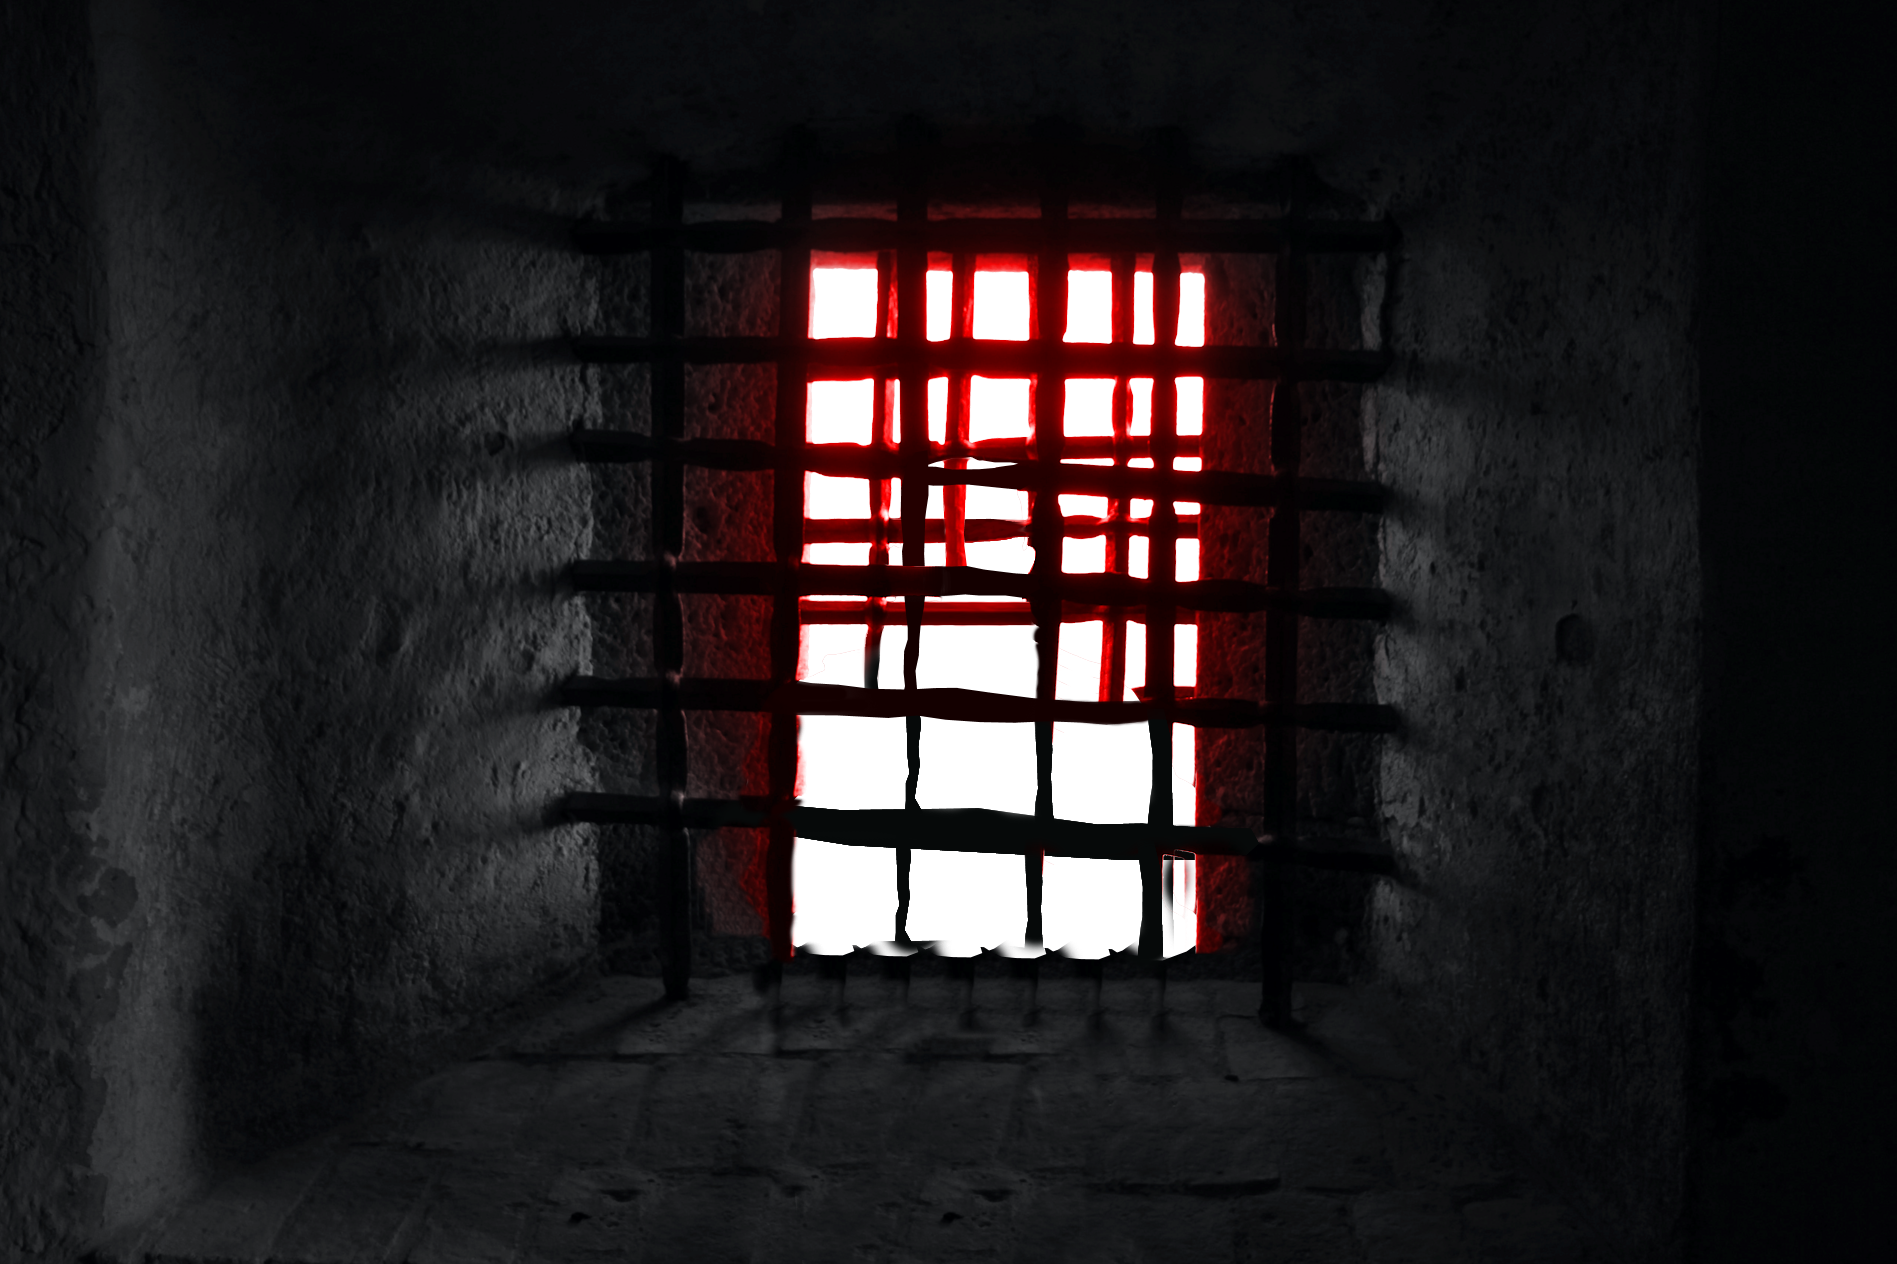
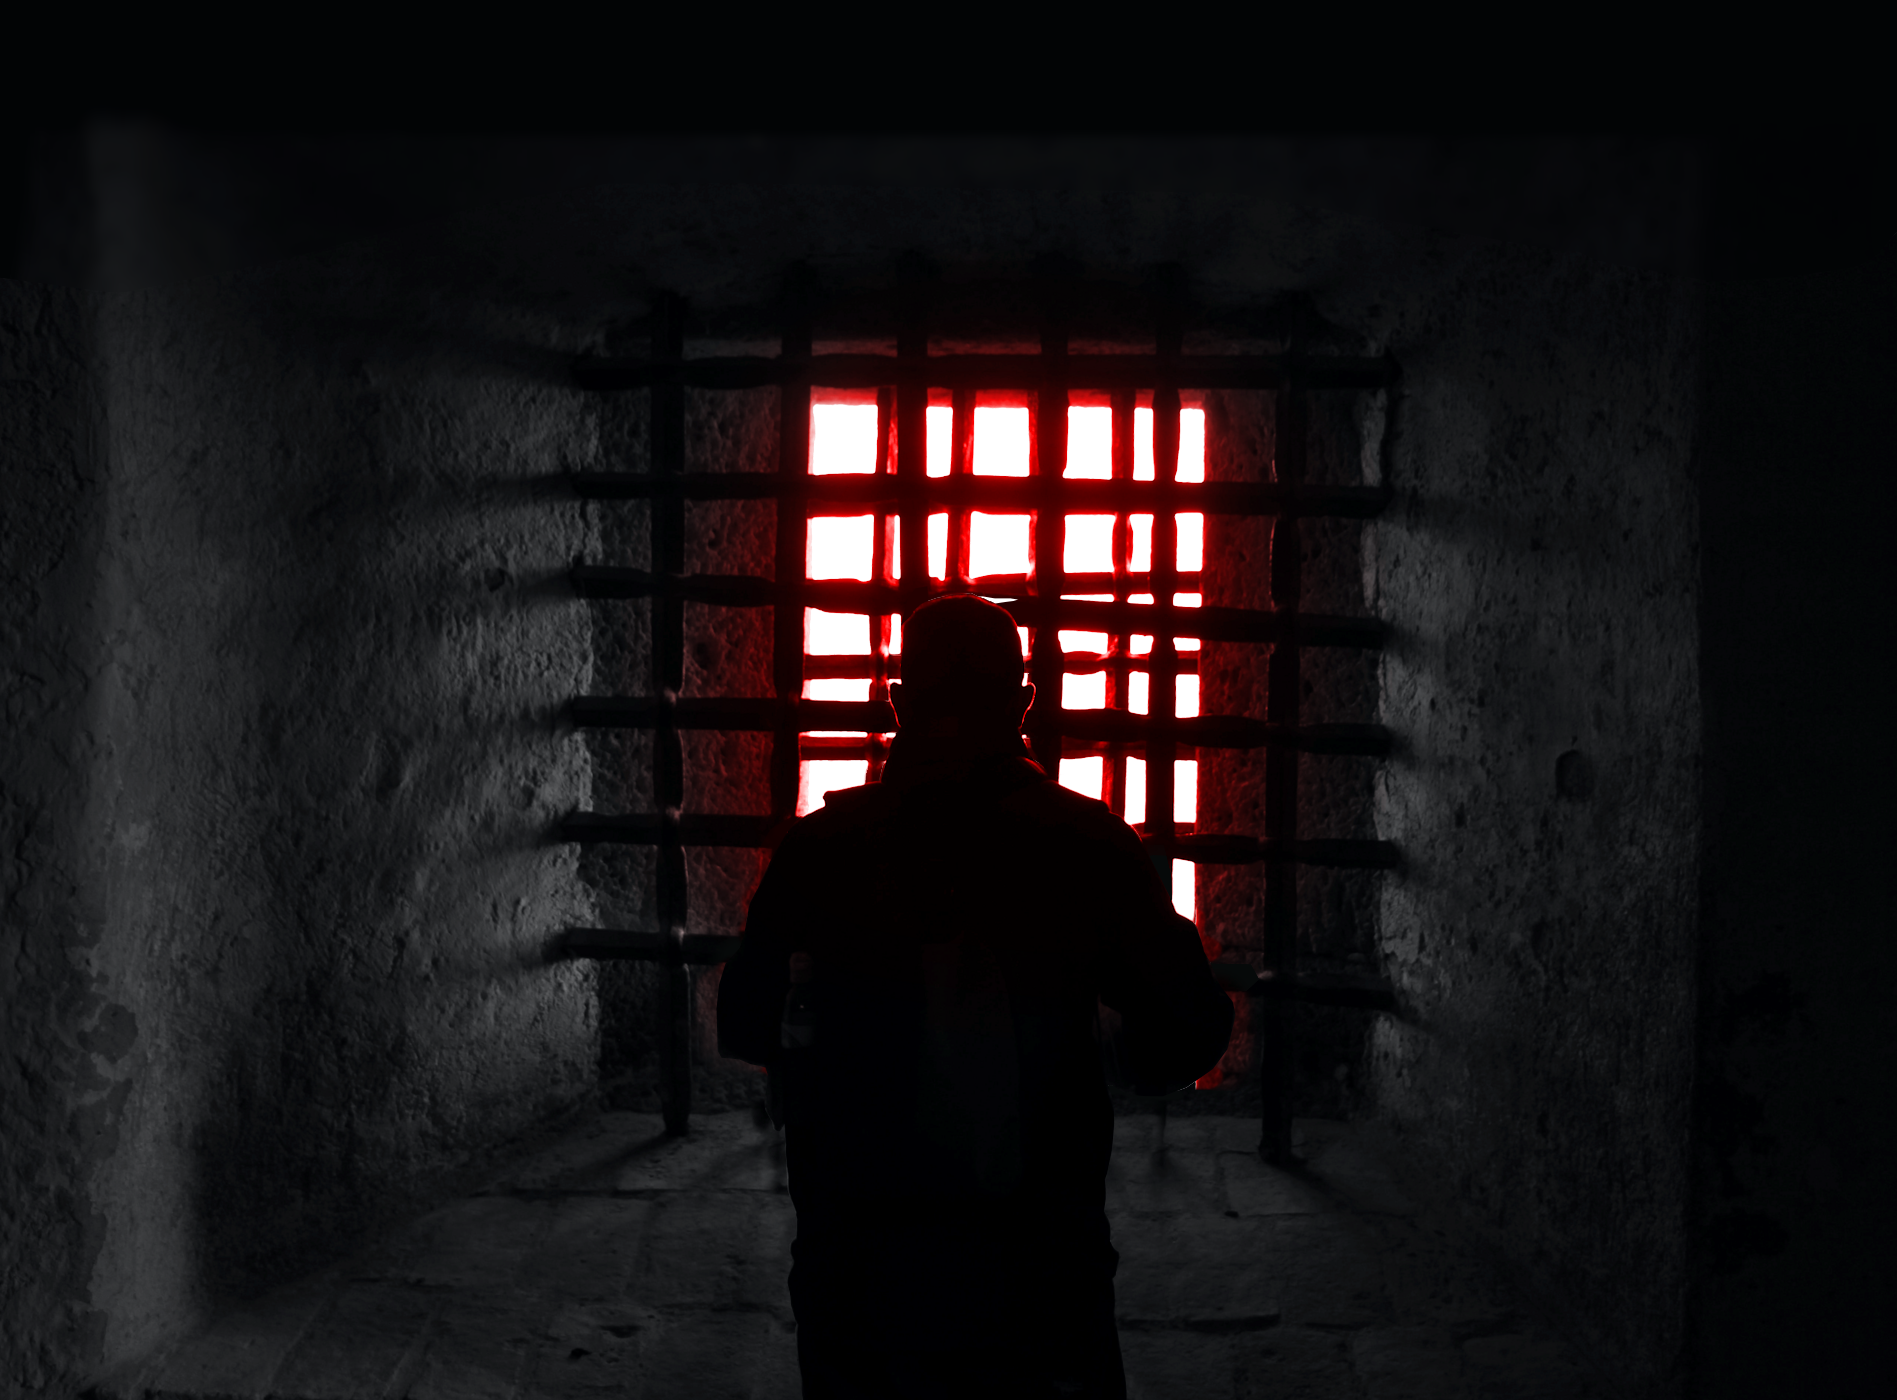
Adjusted pictures.  Replaced background with animated fire

diff --git a/client/src/pages/Landing/index.js b/client/src/pages/Landing/index.js
@@ -1,8 +1,8 @@
 import React from "react";
 import { Col, Row } from "../../components/Grid";
 import { ParallaxBanner } from 'react-scroll-parallax';
-import Bars from "./dungeonNull.png";
-import Dungeon from "./prisha-eee-TeMuehXVXno-unsplash.jpg";
+import Bars from "./barsNoMan.png";
+import Dungeon from "./fire.gif";
 import Man from "./manNull.png";
 import DropCap from "./DropCapDSmall.png";
 import { Link } from "react-router-dom"
@@ -18,6 +18,7 @@ function Landing() {
           {
             image: Dungeon,
             amount: 0.3,
+            
           },
           {
             image: Bars,
